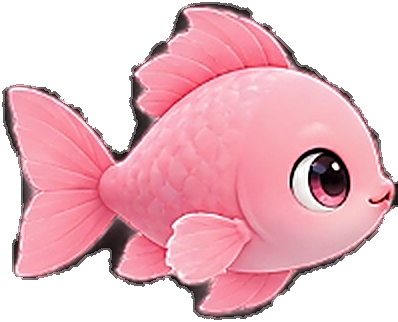
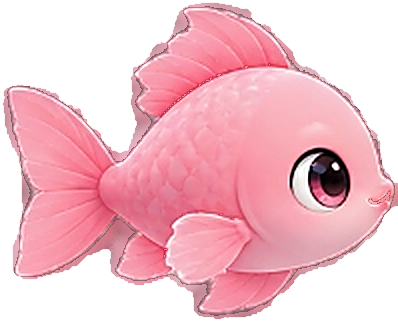
fix(sprites): clean all dark perimeter rims and apply subpixel smooth anti-aliased edge contours

diff --git a/src/components/modals/CoupleModal.tsx b/src/components/modals/CoupleModal.tsx
@@ -70,7 +70,7 @@ export function CoupleModal({ isOpen, onClose }: CoupleModalProps) {
           >
             <div className="w-14 h-14 mx-auto rounded-xl bg-white border border-[#CBD7DF] flex items-center justify-center shadow-2xs p-1.5 overflow-hidden">
               <img
-                src={`/fish/candut_stage${aquarium.current_level >= 401 ? 5 : aquarium.current_level >= 301 ? 4 : aquarium.current_level >= 201 ? 3 : aquarium.current_level >= 101 ? 2 : 1}.png?v=4`}
+                src={`/fish/candut_stage${aquarium.current_level >= 401 ? 5 : aquarium.current_level >= 301 ? 4 : aquarium.current_level >= 201 ? 3 : aquarium.current_level >= 101 ? 2 : 1}.png?v=5`}
                 alt="Candut"
                 className={`w-full h-full object-contain transition-transform ${aquarium.current_level < 101 ? 'scale-[0.84]' : ''}`}
               />
@@ -102,7 +102,7 @@ export function CoupleModal({ isOpen, onClose }: CoupleModalProps) {
           >
             <div className="w-14 h-14 mx-auto rounded-xl bg-white border border-[#F3C5D1] flex items-center justify-center shadow-2xs p-1.5 overflow-hidden">
               <img
-                src={`/fish/repa_stage${aquarium.current_level >= 401 ? 5 : aquarium.current_level >= 301 ? 4 : aquarium.current_level >= 201 ? 3 : aquarium.current_level >= 101 ? 2 : 1}.png?v=4`}
+                src={`/fish/repa_stage${aquarium.current_level >= 401 ? 5 : aquarium.current_level >= 301 ? 4 : aquarium.current_level >= 201 ? 3 : aquarium.current_level >= 101 ? 2 : 1}.png?v=5`}
                 alt="Saridut"
                 className={`w-full h-full object-contain transition-transform ${aquarium.current_level < 101 ? 'scale-[0.84]' : ''}`}
               />

diff --git a/src/components/modals/LevelRoadmapModal.tsx b/src/components/modals/LevelRoadmapModal.tsx
@@ -130,14 +130,14 @@ export function LevelRoadmapModal({ isOpen, onClose }: LevelRoadmapModalProps) {
                       <div className="flex items-center -space-x-1.5">
                         <div className="w-7 h-7 sm:w-8 sm:h-8 rounded-lg bg-white border border-[#CBD7DF] p-0.5 shadow-2xs flex items-center justify-center overflow-hidden">
                           <img
-                            src={`/fish/candut_stage${m.stage}.png?v=4`}
+                            src={`/fish/candut_stage${m.stage}.png?v=5`}
                             alt={`Candut Tahap ${m.stage}`}
                             className={`w-full h-full object-contain transition-transform ${m.stage === 1 ? 'scale-[0.80]' : ''}`}
                           />
                         </div>
                         <div className="w-7 h-7 sm:w-8 sm:h-8 rounded-lg bg-white border border-[#F3C5D1] p-0.5 shadow-2xs flex items-center justify-center overflow-hidden">
                           <img
-                            src={`/fish/repa_stage${m.stage}.png?v=4`}
+                            src={`/fish/repa_stage${m.stage}.png?v=5`}
                             alt={`Saridut Tahap ${m.stage}`}
                             className={`w-full h-full object-contain transition-transform ${m.stage === 1 ? 'scale-[0.80]' : ''}`}
                           />

diff --git a/src/components/aquarium/AquariumCanvas.tsx b/src/components/aquarium/AquariumCanvas.tsx
@@ -109,14 +109,14 @@ export function AquariumCanvas({ onTapLocation }: AquariumCanvasProps) {
       const cKey = `candut_${stage}`;
       if (!fishSpritesRef.current[cKey]) {
         const cImg = new Image();
-        cImg.src = `/fish/candut_stage${stage}.png?v=4`;
+        cImg.src = `/fish/candut_stage${stage}.png?v=5`;
         fishSpritesRef.current[cKey] = cImg;
       }
 
       const rKey = `repa_${stage}`;
       if (!fishSpritesRef.current[rKey]) {
         const rImg = new Image();
-        rImg.src = `/fish/repa_stage${stage}.png?v=4`;
+        rImg.src = `/fish/repa_stage${stage}.png?v=5`;
         fishSpritesRef.current[rKey] = rImg;
       }
     }

diff --git a/scripts/process_fish_perfect.py b/scripts/process_fish_perfect.py
@@ -3,14 +3,15 @@ import numpy as np
 from PIL import Image, ImageFilter, ImageDraw
 from collections import deque
 
-FISH_DIR = 'public/fish'
+ORIG_DIR = r"C:\Users\acer\.gemini\antigravity\brain\9d22dcdd-d124-4094-9cc2-f352ecbcdd94\scratch\orig_sprites"
+PUBLIC_DIR = r"d:\aqua\public\fish"
 
-def process_fish_solid_and_clean_edge(img_path, role, stage):
-    im = Image.open(img_path).convert('RGBA')
+def process_fish_sprite(img_path, role):
+    im = Image.open(img_path).convert("RGBA")
     w, h = im.size
     arr = np.array(im)
-    rgb = arr[:, :, :3].copy()
-    alpha = arr[:, :, 3].copy()
+    rgb = arr[:, :, :3].astype(float)
+    alpha = arr[:, :, 3].astype(float)
     
     filename = os.path.basename(img_path)
     is_repa4 = 'repa_stage4' in filename
@@ -28,73 +29,39 @@ def process_fish_solid_and_clean_edge(img_path, role, stage):
         alpha[390:445, 460:] = 0
         alpha[-15:, 460:] = 0
 
-    # 1. Background identification via flood fill from 4 canvas borders
-    # Only pixels connected to canvas borders with low alpha or dark empty space are background
-    visited_bg = np.zeros((h, w), dtype=bool)
+    # 1. Background Flood Fill from outer image edges
+    bg_visited = np.zeros((h, w), dtype=bool)
     q = deque()
-    
-    # Border pixels seed
     for y in range(h):
-        for x in [0, w - 1]:
+        for x in [0, w-1]:
             if alpha[y, x] < 60:
-                visited_bg[y, x] = True
+                bg_visited[y, x] = True
                 q.append((y, x))
     for x in range(w):
-        for y in [0, h - 1]:
-            if not visited_bg[y, x] and alpha[y, x] < 60:
-                visited_bg[y, x] = True
+        for y in [0, h-1]:
+            if not bg_visited[y, x] and alpha[y, x] < 60:
+                bg_visited[y, x] = True
                 q.append((y, x))
-
+                
     while q:
         cy, cx = q.popleft()
         for dy, dx in [(-1,0), (1,0), (0,-1), (0,1)]:
             ny, nx = cy + dy, cx + dx
-            if 0 <= ny < h and 0 <= nx < w and not visited_bg[ny, nx]:
-                # Background flood fill: low alpha (transparent) OR black fringe touching the outer edge
-                # STRICTLY alpha < 35 or (alpha < 100 and very low brightness < 30)
-                # NEVER penetrate solid body pixels!
-                if alpha[ny, nx] < 35 or (alpha[ny, nx] < 100 and np.mean(rgb[ny, nx]) < 30):
-                    visited_bg[ny, nx] = True
+            if 0 <= ny < h and 0 <= nx < w and not bg_visited[ny, nx]:
+                # Background: low alpha or dark edge noise touching outside
+                if alpha[ny, nx] < 35 or (alpha[ny, nx] < 120 and np.mean(rgb[ny, nx]) < 35):
+                    bg_visited[ny, nx] = True
                     q.append((ny, nx))
-
-    # Fish body silhouette is EVERYTHING not reached by the outside background flood fill!
-    fish_mask = ~visited_bg
-
-    # Keep only the single largest connected component in fish_mask (removes isolated border dust)
-    solid_mask = fish_mask & (alpha > 30)
-    visited_island = np.zeros((h, w), dtype=bool)
-    max_island = []
-    for y in range(h):
-        for x in range(w):
-            if solid_mask[y, x] and not visited_island[y, x]:
-                island = []
-                iq = [(y, x)]
-                visited_island[y, x] = True
-                while iq:
-                    py, px = iq.pop()
-                    island.append((py, px))
-                    for dy, dx in [(-1, 0), (1, 0), (0, -1), (0, 1)]:
-                        my, mx = py + dy, px + dx
-                        if 0 <= my < h and 0 <= mx < w and solid_mask[my, mx] and not visited_island[my, mx]:
-                            visited_island[my, mx] = True
-                            iq.append((my, mx))
-                if len(island) > len(max_island):
-                    max_island = island
-
-    main_fish_mask = np.zeros((h, w), dtype=bool)
-    for py, px in max_island:
-        main_fish_mask[py, px] = True
-
-    # Fill any holes inside the main fish mask so the entire interior is SOLID!
-    fish_pil = Image.fromarray((main_fish_mask * 255).astype(np.uint8), mode='L')
-    # Filling holes: flood fill from corner on inverted mask
-    inv_pil = Image.eval(fish_pil, lambda a: 255 if a == 0 else 0)
-    inv_arr = np.array(inv_pil)
+                    
+    fish_solid_envelope = ~bg_visited
     
+    # Fill any interior holes in fish envelope
+    env_img = Image.fromarray((fish_solid_envelope * 255).astype(np.uint8), mode='L')
+    inv_img = Image.eval(env_img, lambda a: 255 if a == 0 else 0)
+    inv_arr = np.array(inv_img)
     bg_fill = np.zeros((h, w), dtype=bool)
     fq = deque([(0, 0), (0, w-1), (h-1, 0), (h-1, w-1)])
-    for y, x in fq:
-        bg_fill[y, x] = True
+    for y, x in fq: bg_fill[y, x] = True
     while fq:
         cy, cx = fq.popleft()
         for dy, dx in [(-1,0), (1,0), (0,-1), (0,1)]:
@@ -102,73 +69,67 @@ def process_fish_solid_and_clean_edge(img_path, role, stage):
             if 0 <= ny < h and 0 <= nx < w and not bg_fill[ny, nx] and inv_arr[ny, nx] == 255:
                 bg_fill[ny, nx] = True
                 fq.append((ny, nx))
-
-    # The true filled fish silhouette without ANY internal holes:
-    solid_fish_silhouette = ~bg_fill
-
-    # 2. SEPARATE INTERIOR BODY FROM OUTER RIM
-    # Interior body: eroded by 2 pixels from silhouette
-    silhouette_img = Image.fromarray((solid_fish_silhouette * 255).astype(np.uint8), mode='L')
-    interior_mask = np.array(silhouette_img.filter(ImageFilter.MinFilter(5))) > 0 # 2px erosion
-    rim_mask = solid_fish_silhouette & (~interior_mask) # exactly the 1-2px outer boundary
-
-    # In interior body:
-    # 100% PRESERVE all original colors (including black eyes, scales, shading)!
-    # 100% SET alpha = 255 (completely solid, NO TRANSPARENCY)!
-    final_alpha = np.zeros((h, w), dtype=np.uint8)
-    final_alpha[interior_mask] = 255
+    solid_envelope = ~bg_fill
+    
+    # 2. Eye protection mask (black pupil & specular shine)
+    eye_mask = np.zeros((h, w), dtype=bool)
+    eye_mask[int(h*0.35):int(h*0.65), int(w*0.65):int(w*0.88)] = True
+    
+    # 3. Clean Solid Body vs Fringe Zone
+    # Erode envelope by 1.2px to completely eliminate outer jagged edge and black halo
+    env_pil = Image.fromarray((solid_envelope * 255).astype(np.uint8), mode='L')
+    eroded_1 = env_pil.filter(ImageFilter.MinFilter(3)) # 1px erosion
+    
+    # Clean Interior Source (where colors are 100% genuine and not darkened by matte)
+    # Brightness threshold for clean body: Candut >= 85, Repa >= 95
+    min_clean_b = 85 if role == 'candut' else 95
+    
+    # Clean color reference mask
+    brightness = np.mean(rgb, axis=2)
+    clean_color_mask = solid_envelope & (brightness >= min_clean_b)
+    
+    # If a pixel in solid_envelope is dark (< min_clean_b) and NOT inside the eye:
+    # IT IS A BLACK MATTE FRINGE!
+    is_fringe = solid_envelope & (brightness < min_clean_b) & (~eye_mask)
+    
+    # Inpaint fringe pixels using normalized convolution from clean_color_mask!
+    clean_weight = clean_color_mask.astype(float)
+    clean_rgb = rgb * clean_weight[:, :, None]
+    
+    weight_pil = Image.fromarray((clean_weight * 255).astype(np.uint8), mode='L')
+    color_pil = Image.fromarray(clean_rgb.astype(np.uint8), mode='RGB')
+    
+    blur_w = np.array(weight_pil.filter(ImageFilter.GaussianBlur(6))).astype(float) / 255.0
+    blur_c = np.array(color_pil.filter(ImageFilter.GaussianBlur(6))).astype(float)
+    
+    infill_rgb = blur_c / np.clip(blur_w[:, :, None], 0.0001, 1.0)
+    infill_rgb = np.clip(infill_rgb, 0, 255)
+    
+    # Replace fringe pixels with infill_rgb!
     final_rgb = rgb.copy()
+    final_rgb[is_fringe] = infill_rgb[is_fringe]
+    
+    # 4. SILKY SMOOTH, NEAT ANTI-ALIASED ALPHA MASK
+    # Subpixel Gaussian blur (radius 0.7) on eroded_1 for beautiful neat anti-aliasing
+    eroded_pil = eroded_1.filter(ImageFilter.GaussianBlur(0.7))
+    arr_e = np.array(eroded_pil).astype(float) / 255.0
+    
+    # Rescale alpha: 0.12 to 0.70 maps to 0 to 255
+    final_alpha = np.clip((arr_e - 0.12) / (0.70 - 0.12), 0.0, 1.0) * 255.0
+    
+    # Everything inside the body (final_alpha > 220) is 100% SOLID OPAQUE (255)!
+    final_alpha[final_alpha > 220] = 255.0
+    final_alpha[final_alpha < 15] = 0.0
+    
+    # Outside envelope: strictly 0
+    final_alpha[~solid_envelope] = 0.0
+    
+    out_arr = np.dstack([final_rgb, final_alpha]).astype(np.uint8)
+    return Image.fromarray(out_arr, mode='RGBA')
 
-    # If there were any weird keyed-out pixels inside deep interior in the original (alpha == 0),
-    # inpaint their RGB from neighbors so they aren't black/white spots
-    deep_zero = interior_mask & (alpha == 0)
-    if np.sum(deep_zero) > 0:
-        for y, x in zip(*np.where(deep_zero)):
-            y1, y2 = max(0, y-2), min(h, y+3)
-            x1, x2 = max(0, x-2), min(w, x+3)
-            valid = (alpha[y1:y2, x1:x2] > 50) & interior_mask[y1:y2, x1:x2]
-            if np.sum(valid) > 0:
-                final_rgb[y, x] = np.mean(final_rgb[y1:y2, x1:x2][valid], axis=0).astype(np.uint8)
-
-    # 3. CLEAN ONLY THE RIM (GARIS PINGGIR HITAM)
-    # On the rim, if a pixel is dark fringe (contaminated by black background),
-    # sample color from the neighboring interior fish pixels!
-    # And give it clean anti-aliased edge alpha.
-    for y, x in zip(*np.where(rim_mask)):
-        y1, y2 = max(0, y-2), min(h, y+3)
-        x1, x2 = max(0, x-2), min(w, x+3)
-        nbr_interior = interior_mask[y1:y2, x1:x2]
-        
-        orig_color = rgb[y, x]
-        orig_bright = np.mean(orig_color)
-        
-        if np.sum(nbr_interior) > 0:
-            nbr_colors = final_rgb[y1:y2, x1:x2][nbr_interior]
-            nbr_mean_bright = np.mean(nbr_colors)
-            
-            # If the rim pixel is significantly darker than its interior neighbor, it's a black fringe!
-            if orig_bright < 65 and nbr_mean_bright > 80:
-                # Replace contaminated black border color with the clean fish interior color!
-                final_rgb[y, x] = np.mean(nbr_colors, axis=0).astype(np.uint8)
-                final_alpha[y, x] = 200 # smooth clean edge
-            elif orig_bright < 40:
-                final_rgb[y, x] = np.mean(nbr_colors, axis=0).astype(np.uint8)
-                final_alpha[y, x] = 180
-            else:
-                # Already a clean color: keep original color, set solid/smooth alpha
-                final_alpha[y, x] = max(190, alpha[y, x])
-        else:
-            final_alpha[y, x] = max(160, alpha[y, x])
-
-    # Outside the silhouette: 100% transparent
-    final_alpha[~solid_fish_silhouette] = 0
-
-    clean_im = Image.fromarray(np.dstack([final_rgb, final_alpha]), mode='RGBA')
-    return clean_im
-
-def make_chibi_baby_sprite_solid(clean_im, role):
-    w, h = clean_im.size
-    arr = np.array(clean_im).astype(np.float32)
+def make_chibi_baby_sprite(im, role):
+    w, h = im.size
+    arr = np.array(im).astype(np.float32)
 
     eye_x, eye_y = (int(w * 0.76), int(h * 0.50))
 
@@ -254,7 +215,40 @@ def make_chibi_baby_sprite_solid(clean_im, role):
     # Ensure body inside baby remains 100% SOLID OPAQUE (alpha = 255)
     baby_arr = np.array(warped_im)
     baby_a = baby_arr[:, :, 3]
-    baby_arr[baby_a > 128, 3] = 255
-    baby_arr[(baby_a > 0) & (baby_a <= 128), 3] = np.clip(baby_a[(baby_a > 0) & (baby_a <= 128)] * 1.5, 0, 255).astype(np.uint8)
+    baby_arr[baby_a > 120, 3] = 255
+    baby_arr[(baby_a > 0) & (baby_a <= 120), 3] = np.clip(baby_a[(baby_a > 0) & (baby_a <= 120)] * 1.5, 0, 255).astype(np.uint8)
 
     return Image.fromarray(baby_arr, mode='RGBA')
+
+def main():
+    print("=== Processing All 10 Sprites to public/fish ===")
+    for stage in range(1, 6):
+        for role in ['candut', 'repa']:
+            fname = f"{role}_stage{stage}.png"
+            in_path = os.path.join(ORIG_DIR, fname)
+            out_path = os.path.join(PUBLIC_DIR, fname)
+            
+            cleaned = process_fish_sprite(in_path, role)
+            if stage == 1:
+                final = make_chibi_baby_sprite(cleaned, role)
+            else:
+                final = cleaned
+                
+            final.save(out_path)
+            
+            arr = np.array(final)
+            a = arr[:, :, 3]
+            rgb = arr[:, :, :3]
+            padded_zero = np.pad(a < 10, 1, mode='constant', constant_values=True)
+            has_zero_nbr = (
+                padded_zero[:-2, 1:-1] | padded_zero[2:, 1:-1] |
+                padded_zero[1:-1, :-2] | padded_zero[1:-1, 2:]
+            )
+            edge_m = (a > 10) & has_zero_nbr
+            edge_b = np.mean(rgb[edge_m], axis=1)
+            
+            solid_pct = np.sum(a == 255) / np.sum(a > 0) * 100
+            print(f"Saved {fname}: Solid={solid_pct:.1f}%, Edge mean brightness={np.mean(edge_b):.1f}, Edge < 50: {np.sum(edge_b < 50)}/{len(edge_b)}")
+
+if __name__ == '__main__':
+    main()
